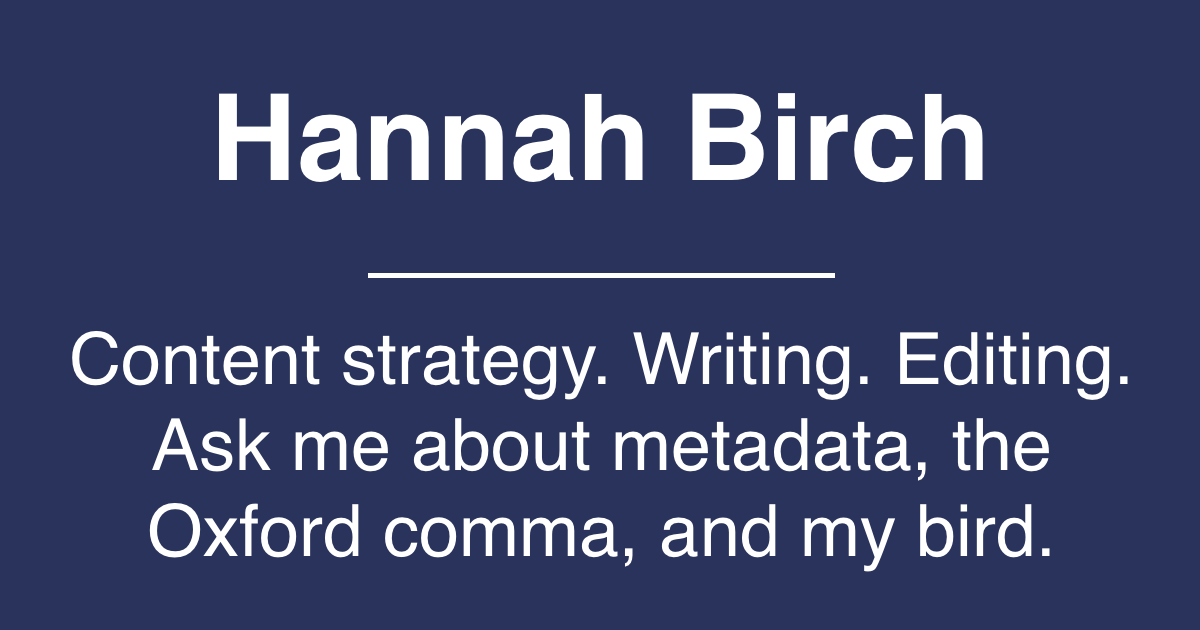
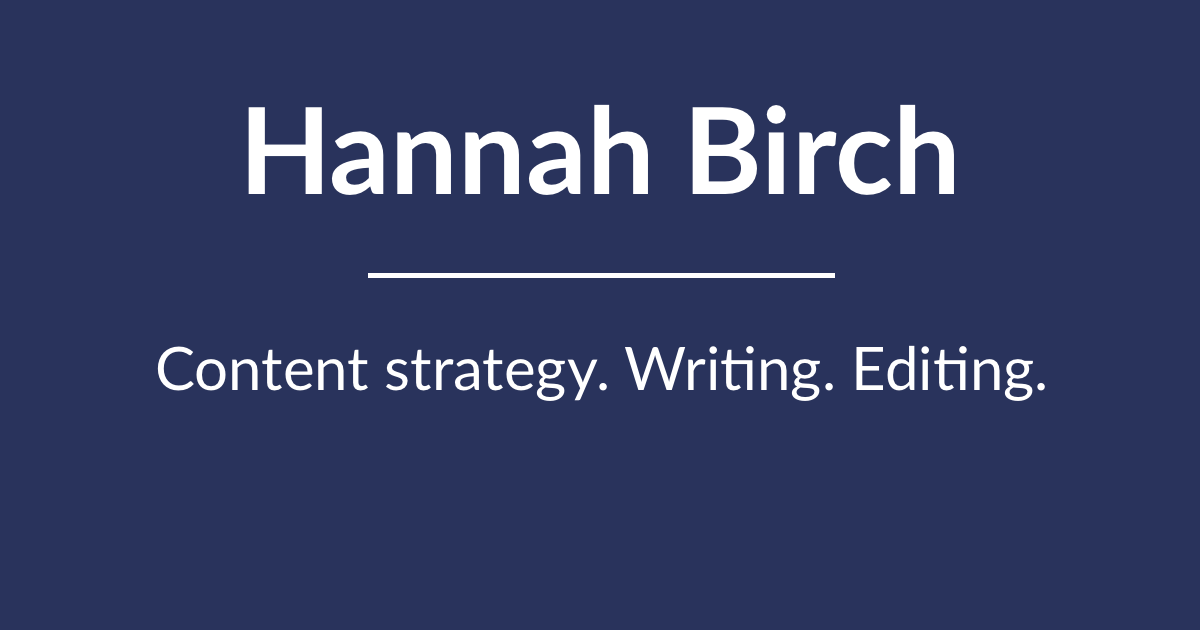
Adds description to OG image, updates OG image so font matches

diff --git a/_site/homepage-breaking-news/index.html b/_site/homepage-breaking-news/index.html
@@ -17,6 +17,7 @@
 <meta property="og:url" content="http://localhost:4000/homepage-breaking-news/">
 <meta property="og:site_name" content="Hannah Birch">
 <meta property="og:image" content="http://localhost:4000/assets/img/default-og-image-1200x630.png">
+<meta property="og:description" content="The words “Hannah Birch” are in large white type on a purple background, with “content strategist, editor, writer” below it." />
 
 <meta property="og:image:width" content="1200" />
 <meta property="og:image:height" content="630" />
@@ -118,6 +119,7 @@
 <meta property="og:url" content="http://localhost:4000/homepage-breaking-news/">
 <meta property="og:site_name" content="Hannah Birch">
 <meta property="og:image" content="http://localhost:4000/assets/img/default-og-image-1200x630.png">
+<meta property="og:description" content="The words “Hannah Birch” are in large white type on a purple background, with “content strategist, editor, writer” below it." />
 
 <meta property="og:image:width" content="1200" />
 <meta property="og:image:height" content="630" />

diff --git a/_site/speaking/index.html b/_site/speaking/index.html
@@ -17,6 +17,7 @@
 <meta property="og:url" content="http://localhost:4000/speaking/">
 <meta property="og:site_name" content="Hannah Birch">
 <meta property="og:image" content="http://localhost:4000/assets/img/default-og-image-1200x630.png">
+<meta property="og:description" content="The words “Hannah Birch” are in large white type on a purple background, with “content strategist, editor, writer” below it." />
 
 <meta property="og:image:width" content="1200" />
 <meta property="og:image:height" content="630" />
@@ -118,6 +119,7 @@
 <meta property="og:url" content="http://localhost:4000/speaking/">
 <meta property="og:site_name" content="Hannah Birch">
 <meta property="og:image" content="http://localhost:4000/assets/img/default-og-image-1200x630.png">
+<meta property="og:description" content="The words “Hannah Birch” are in large white type on a purple background, with “content strategist, editor, writer” below it." />
 
 <meta property="og:image:width" content="1200" />
 <meta property="og:image:height" content="630" />

diff --git a/_site/writing/index.html b/_site/writing/index.html
@@ -17,6 +17,7 @@
 <meta property="og:url" content="http://localhost:4000/writing/">
 <meta property="og:site_name" content="Hannah Birch">
 <meta property="og:image" content="http://localhost:4000/assets/img/default-og-image-1200x630.png">
+<meta property="og:description" content="The words “Hannah Birch” are in large white type on a purple background, with “content strategist, editor, writer” below it." />
 
 <meta property="og:image:width" content="1200" />
 <meta property="og:image:height" content="630" />
@@ -118,6 +119,7 @@
 <meta property="og:url" content="http://localhost:4000/writing/">
 <meta property="og:site_name" content="Hannah Birch">
 <meta property="og:image" content="http://localhost:4000/assets/img/default-og-image-1200x630.png">
+<meta property="og:description" content="The words “Hannah Birch” are in large white type on a purple background, with “content strategist, editor, writer” below it." />
 
 <meta property="og:image:width" content="1200" />
 <meta property="og:image:height" content="630" />

diff --git a/_site/resume/index.html b/_site/resume/index.html
@@ -17,6 +17,7 @@
 <meta property="og:url" content="http://localhost:4000/resume/">
 <meta property="og:site_name" content="Hannah Birch">
 <meta property="og:image" content="http://localhost:4000/assets/img/default-og-image-1200x630.png">
+<meta property="og:description" content="The words “Hannah Birch” are in large white type on a purple background, with “content strategist, editor, writer” below it." />
 
 <meta property="og:image:width" content="1200" />
 <meta property="og:image:height" content="630" />
@@ -118,6 +119,7 @@
 <meta property="og:url" content="http://localhost:4000/resume/">
 <meta property="og:site_name" content="Hannah Birch">
 <meta property="og:image" content="http://localhost:4000/assets/img/default-og-image-1200x630.png">
+<meta property="og:description" content="The words “Hannah Birch” are in large white type on a purple background, with “content strategist, editor, writer” below it." />
 
 <meta property="og:image:width" content="1200" />
 <meta property="og:image:height" content="630" />

diff --git a/_site/about/index.html b/_site/about/index.html
@@ -17,6 +17,7 @@
 <meta property="og:url" content="http://localhost:4000/about/">
 <meta property="og:site_name" content="Hannah Birch">
 <meta property="og:image" content="http://localhost:4000/assets/img/default-og-image-1200x630.png">
+<meta property="og:description" content="The words “Hannah Birch” are in large white type on a purple background, with “content strategist, editor, writer” below it." />
 
 <meta property="og:image:width" content="1200" />
 <meta property="og:image:height" content="630" />
@@ -118,6 +119,7 @@
 <meta property="og:url" content="http://localhost:4000/about/">
 <meta property="og:site_name" content="Hannah Birch">
 <meta property="og:image" content="http://localhost:4000/assets/img/default-og-image-1200x630.png">
+<meta property="og:description" content="The words “Hannah Birch” are in large white type on a purple background, with “content strategist, editor, writer” below it." />
 
 <meta property="og:image:width" content="1200" />
 <meta property="og:image:height" content="630" />

diff --git a/_site/2020-06-01/content-strategy-volunteering-for-the-covid-tracking-project.html b/_site/2020-06-01/content-strategy-volunteering-for-the-covid-tracking-project.html
@@ -17,6 +17,7 @@
 <meta property="og:url" content="http://localhost:4000/2020-06-01/content-strategy-volunteering-for-the-covid-tracking-project.html">
 <meta property="og:site_name" content="Hannah Birch">
 <meta property="og:image" content="http://localhost:4000/assets/img/default-og-image-1200x630.png">
+<meta property="og:description" content="The words “Hannah Birch” are in large white type on a purple background, with “content strategist, editor, writer” below it." />
 
 <meta property="og:image:width" content="1200" />
 <meta property="og:image:height" content="630" />

diff --git a/_site/2017-09-05/social-engineering-in-newsrooms-with-hamilton-and-burr.html b/_site/2017-09-05/social-engineering-in-newsrooms-with-hamilton-and-burr.html
@@ -17,6 +17,7 @@
 <meta property="og:url" content="http://localhost:4000/2017-09-05/social-engineering-in-newsrooms-with-hamilton-and-burr.html">
 <meta property="og:site_name" content="Hannah Birch">
 <meta property="og:image" content="http://localhost:4000/assets/img/default-og-image-1200x630.png">
+<meta property="og:description" content="The words “Hannah Birch” are in large white type on a purple background, with “content strategist, editor, writer” below it." />
 
 <meta property="og:image:width" content="1200" />
 <meta property="og:image:height" content="630" />

diff --git a/_site/2018-05-16/illustration-commission-for-heart-transplant-series.html b/_site/2018-05-16/illustration-commission-for-heart-transplant-series.html
@@ -17,6 +17,7 @@
 <meta property="og:url" content="http://localhost:4000/2018-05-16/illustration-commission-for-heart-transplant-series.html">
 <meta property="og:site_name" content="Hannah Birch">
 <meta property="og:image" content="http://localhost:4000/assets/img/default-og-image-1200x630.png">
+<meta property="og:description" content="The words “Hannah Birch” are in large white type on a purple background, with “content strategist, editor, writer” below it." />
 
 <meta property="og:image:width" content="1200" />
 <meta property="og:image:height" content="630" />

diff --git a/_site/2016-02-18/battling-government-bureaucracy-as-an-edge-case.html b/_site/2016-02-18/battling-government-bureaucracy-as-an-edge-case.html
@@ -17,6 +17,7 @@
 <meta property="og:url" content="http://localhost:4000/2016-02-18/battling-government-bureaucracy-as-an-edge-case.html">
 <meta property="og:site_name" content="Hannah Birch">
 <meta property="og:image" content="http://localhost:4000/assets/img/default-og-image-1200x630.png">
+<meta property="og:description" content="The words “Hannah Birch” are in large white type on a purple background, with “content strategist, editor, writer” below it." />
 
 <meta property="og:image:width" content="1200" />
 <meta property="og:image:height" content="630" />

diff --git a/_site/2015-01-23/illustration-for-municipal-internet-explainer.html b/_site/2015-01-23/illustration-for-municipal-internet-explainer.html
@@ -17,6 +17,7 @@
 <meta property="og:url" content="http://localhost:4000/2015-01-23/illustration-for-municipal-internet-explainer.html">
 <meta property="og:site_name" content="Hannah Birch">
 <meta property="og:image" content="http://localhost:4000/assets/img/default-og-image-1200x630.png">
+<meta property="og:description" content="The words “Hannah Birch” are in large white type on a purple background, with “content strategist, editor, writer” below it." />
 
 <meta property="og:image:width" content="1200" />
 <meta property="og:image:height" content="630" />

diff --git a/_includes/head.html b/_includes/head.html
@@ -14,6 +14,7 @@
 <meta property="og:url" content="{{ site.url }}{{ page.url }}">
 <meta property="og:site_name" content="{{ site.title }}">
 <meta property="og:image" content="{% if page.image %}{{ page.image }}{% else %}{{ site.url }}/assets/img/default-og-image-1200x630.png{% endif %}">
+<meta property="og:description" content="The words “Hannah Birch” are in large white type on a purple background, with “content strategist, editor, writer” below it." />
 
 <meta property="og:image:width" content="1200" />
 <meta property="og:image:height" content="630" />

diff --git a/_site/2020-09-04/overhauling-the-fares-section-for-the-mta.html b/_site/2020-09-04/overhauling-the-fares-section-for-the-mta.html
@@ -17,6 +17,7 @@
 <meta property="og:url" content="http://localhost:4000/2020-09-04/overhauling-the-fares-section-for-the-mta.html">
 <meta property="og:site_name" content="Hannah Birch">
 <meta property="og:image" content="http://localhost:4000/assets/img/default-og-image-1200x630.png">
+<meta property="og:description" content="The words “Hannah Birch” are in large white type on a purple background, with “content strategist, editor, writer” below it." />
 
 <meta property="og:image:width" content="1200" />
 <meta property="og:image:height" content="630" />
